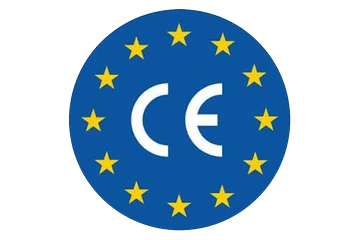
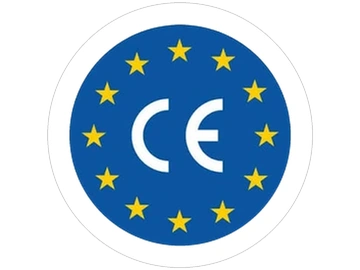
Sello CE: anillo circular blanco exterior, visible en catálogo y en la ficha (sin caja blanca)

diff --git a/assets/css/styles.css b/assets/css/styles.css
@@ -604,12 +604,12 @@ a.origin-badge:focus-visible { outline: 2px solid var(--accent); outline-offset:
 .prod-card .thumb .origin-badge { top: 8px; right: 8px; padding: 3px; gap: 2px; }
 .prod-card .thumb .origin-badge img { width: 38px; }
 .prod-card .thumb .origin-badge b { font-size: .42rem; }
-.prod-card .thumb .origin-badge--plain img { width: 30px; height: 30px; }
+.prod-card .thumb .origin-badge--plain img { width: 34px; height: 34px; }
 @media (max-width: 520px) {
   .prod-card .thumb .origin-badge { top: auto; bottom: 5px; right: 5px; padding: 2px; }
   .prod-card .thumb .origin-badge img { width: 30px; }
   .prod-card .thumb .origin-badge b { font-size: .38rem; }
-  .prod-card .thumb .origin-badge--plain img { width: 26px; height: 26px; }
+  .prod-card .thumb .origin-badge--plain img { width: 30px; height: 30px; }
 }
 /* Las notas del blog aplican margen y borde a toda <img> del contenido (.post-content img);
    dentro de una grilla de productos eso agranda la foto y la caja blanca del logo. */
@@ -1316,3 +1316,12 @@ a.origin-badge:focus-visible { outline: 2px solid var(--accent); outline-offset:
 .service-photos img { display: block; width: 100%; height: auto; aspect-ratio: 4 / 3; object-fit: cover; object-position: 50% 35%; }
 .service-photos figcaption { padding: 10px 14px; font-size: .88rem; color: var(--text-dim); }
 @media (max-width: 760px) { .service-photos .container { grid-template-columns: 1fr; } }
+/* Marcado CE en la ficha: igual que en las tarjetas, sin caja blanca ni texto, para que se
+   vea el anillo blanco del círculo sobre la foto (dentro de la caja blanca no se distinguía). */
+.pd-gallery > .origin-badge--plain { background: none; border: 0; box-shadow: none; padding: 0; }
+.pd-gallery > .origin-badge--plain .ob-text { display: none; }
+.pd-gallery > .origin-badge--plain img { width: 76px; height: 76px; object-fit: cover; filter: drop-shadow(0 1px 3px rgba(0,0,0,.25)); }
+.prod-card .thumb .origin-badge--plain img { filter: drop-shadow(0 1px 2px rgba(0,0,0,.25)); }
+@media (max-width: 520px) {
+  .pd-gallery > .origin-badge--plain img { width: 60px; height: 60px; }
+}
